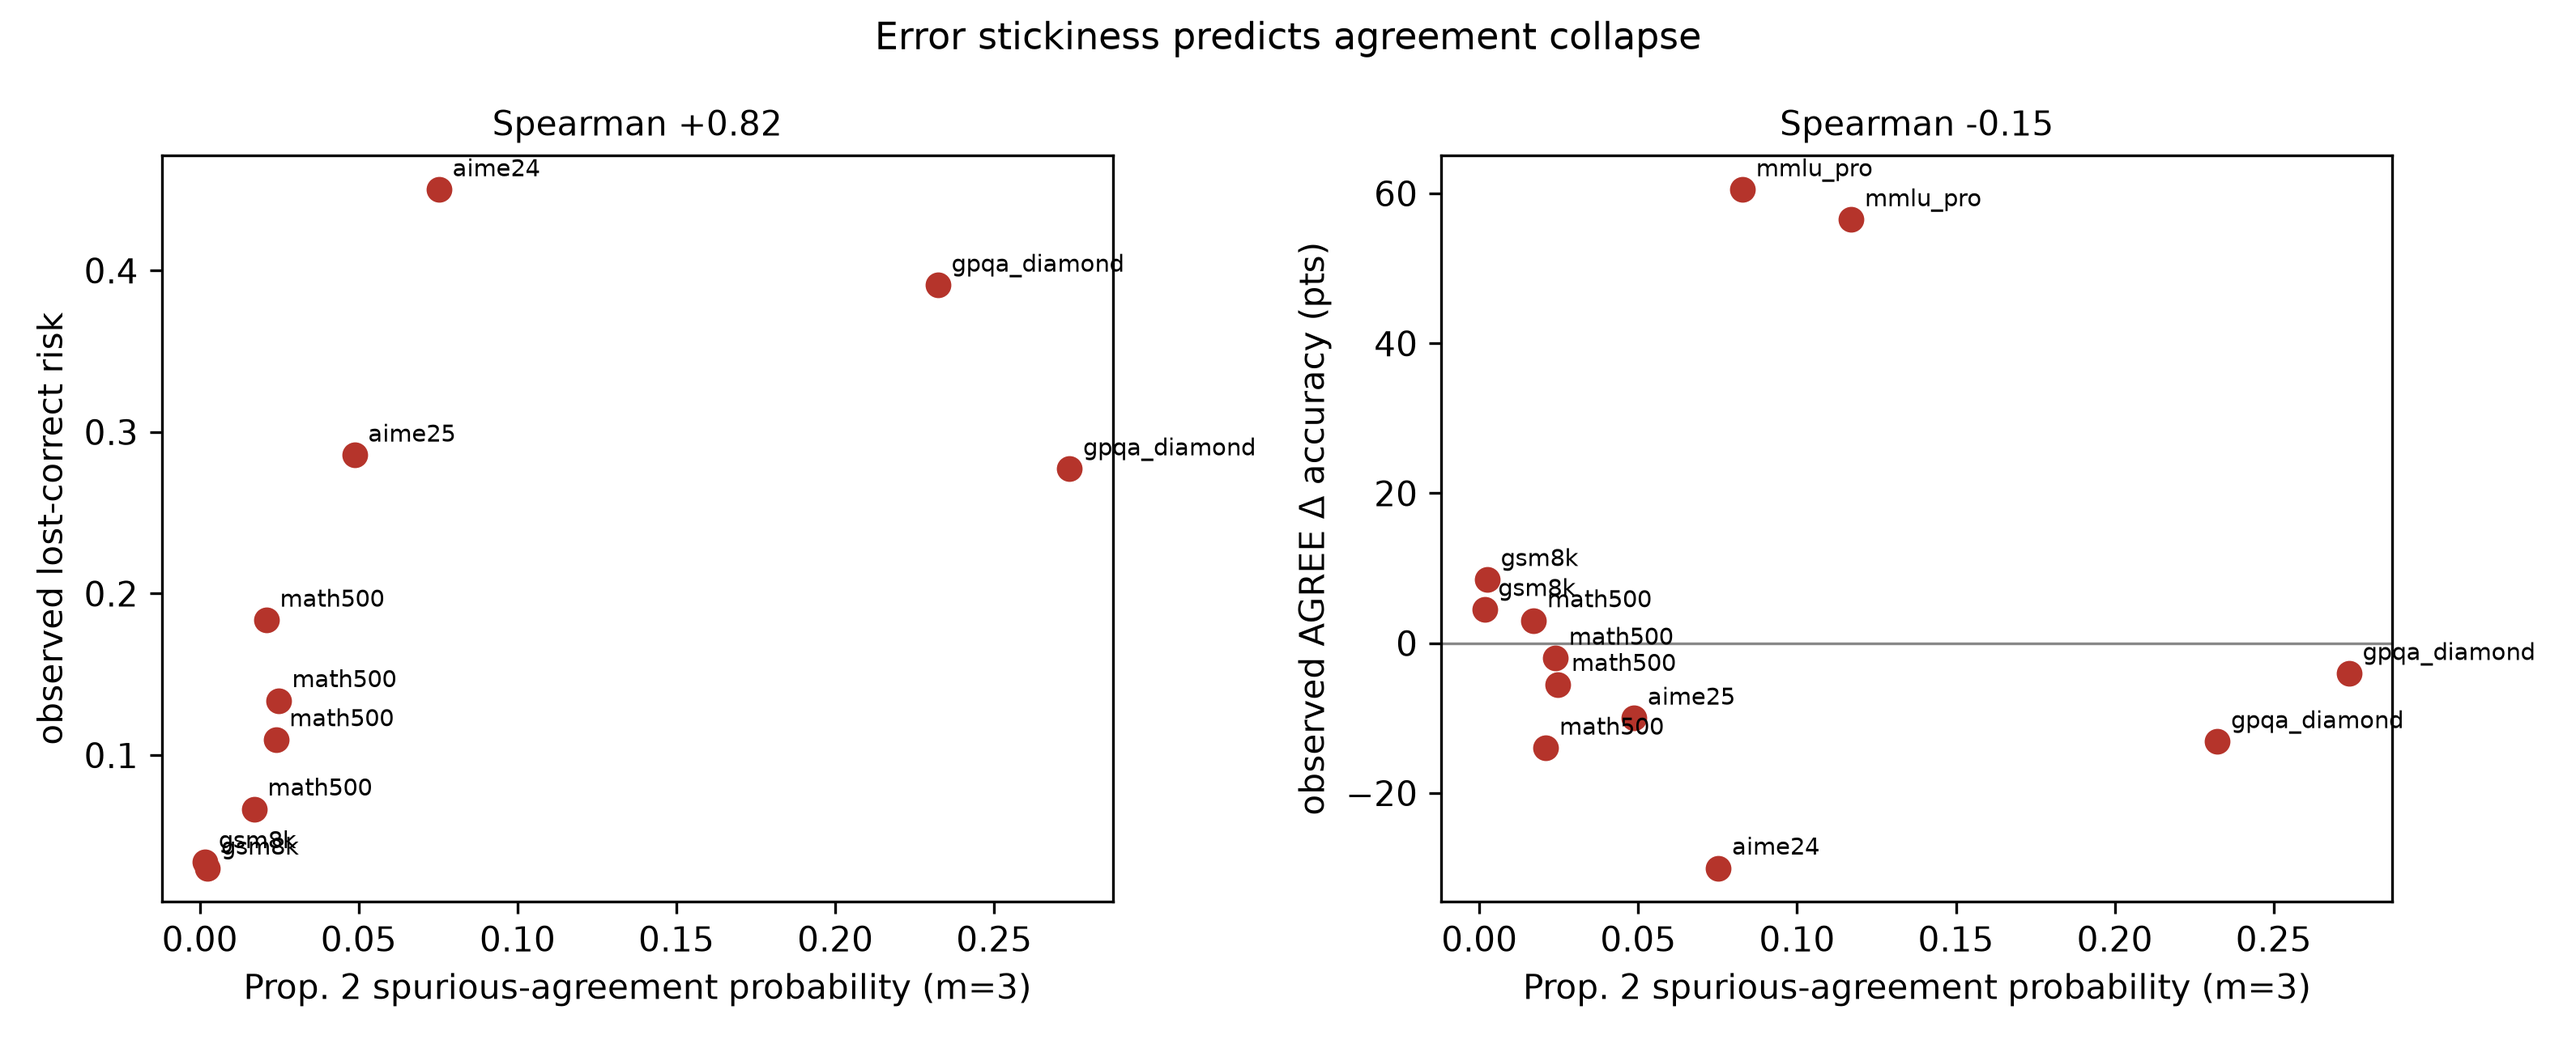
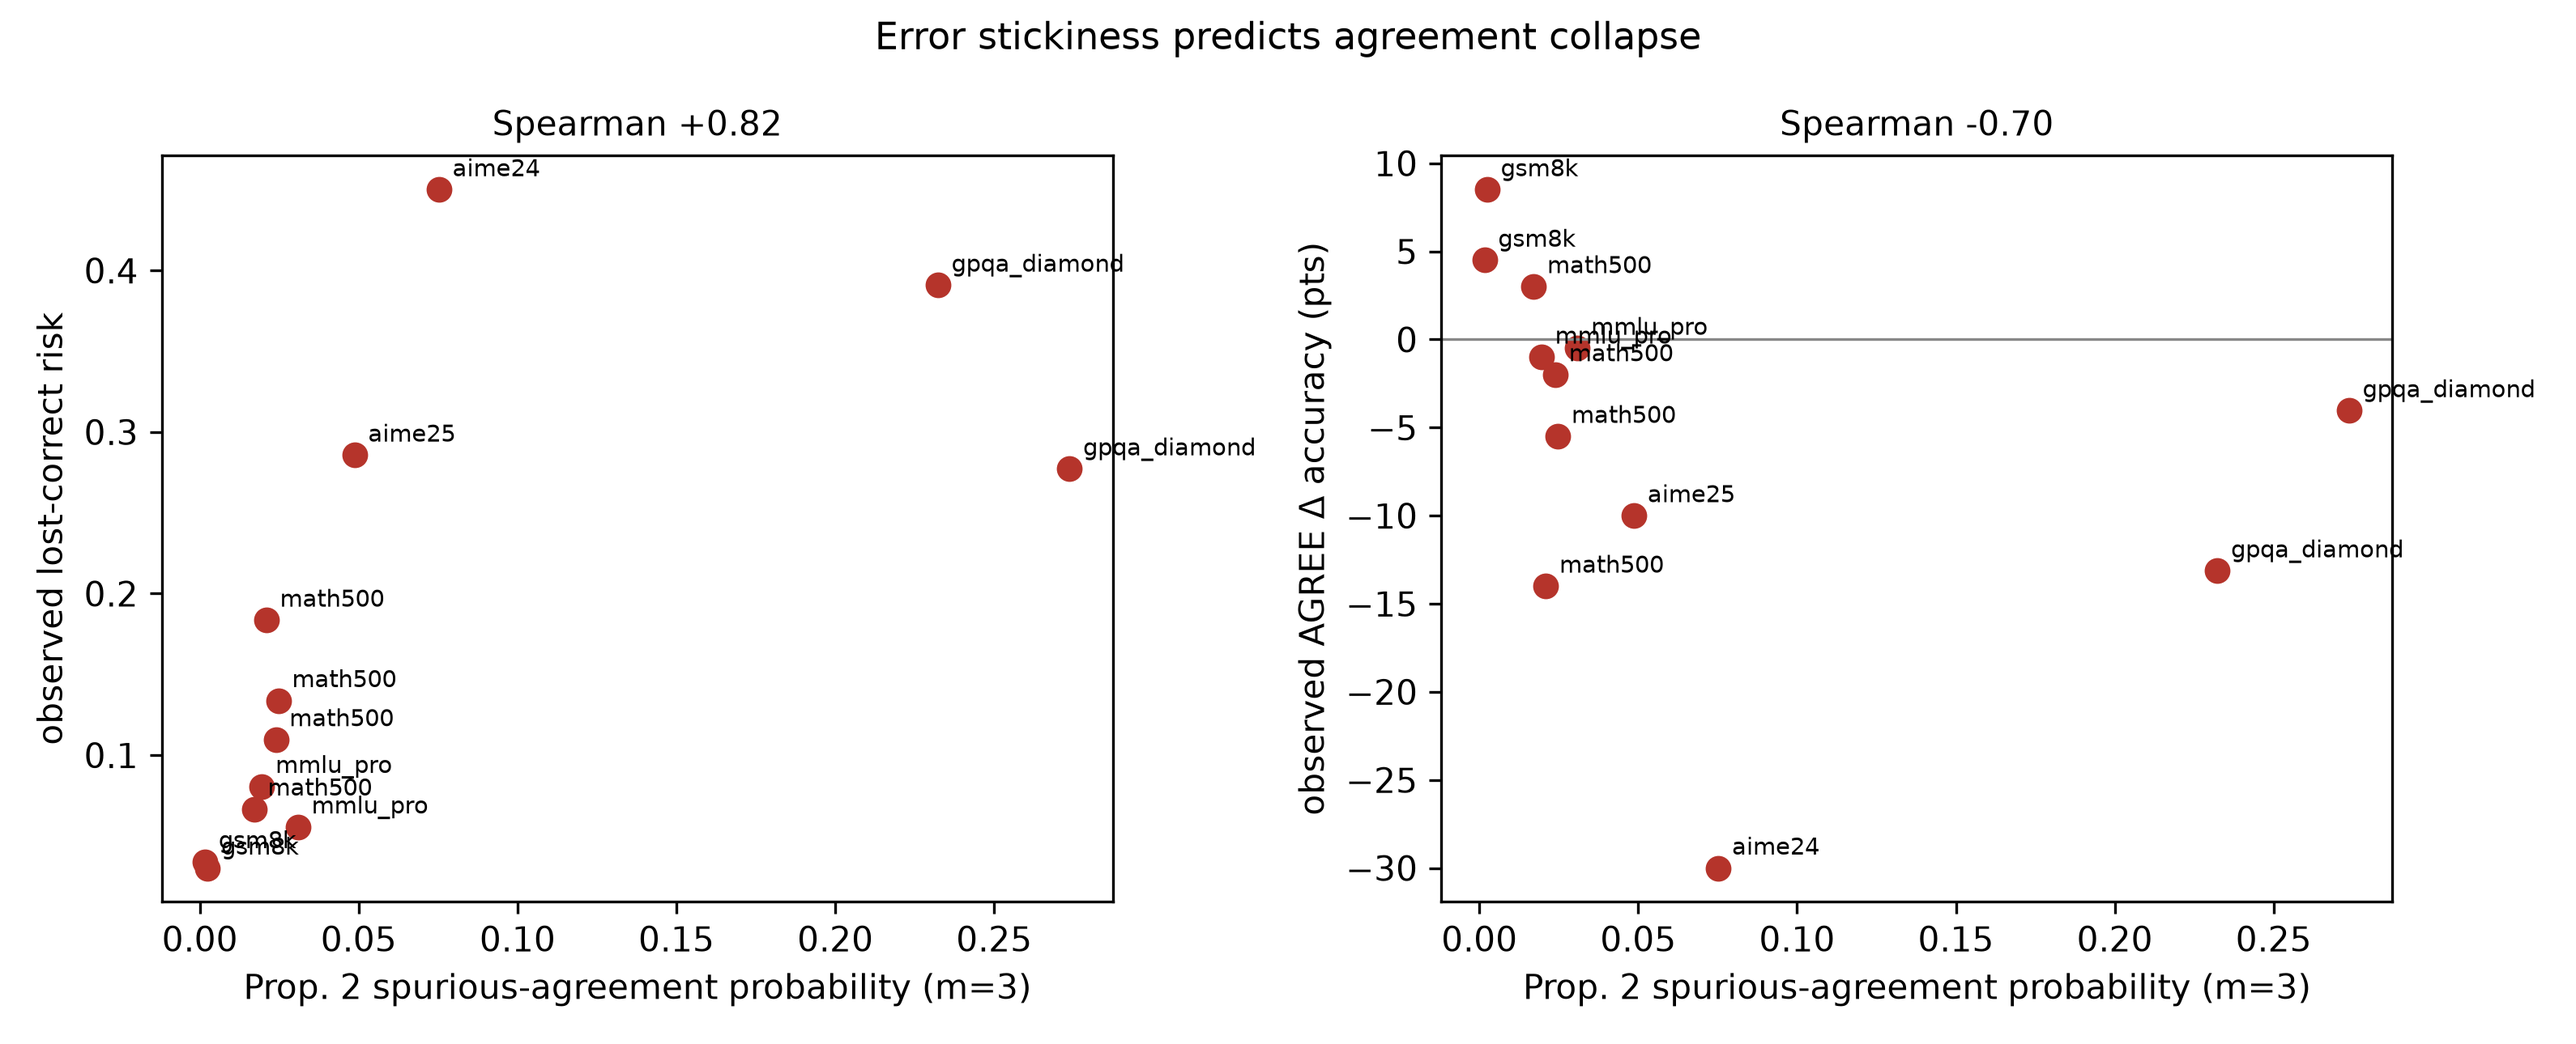
fix: mmlu_pro answer extraction (MCQ letter) + regenerate all affected tables

diff --git a/src/tokenguard/reasoning/datasets.py b/src/tokenguard/reasoning/datasets.py
@@ -88,7 +88,7 @@ def extract_answer(text: str, benchmark: str) -> str:
         return nums[-1].replace(",", "") if nums else ""
     if benchmark in ("math500", "math-500", "aime24", "aime-24", "aime2024", "aime25", "aime-25", "aime2025"):
         return _extract_boxed(text)
-    if benchmark in ("gpqa_diamond", "gpqa"):
+    if benchmark in ("gpqa_diamond", "mmlu_pro", "mmlu-pro", "mmlupro", "gpqa"):
         m = re.findall(r"\b([A-D])\b", text.upper())
         return m[-1] if m else ""
     return text.strip()

diff --git a/experiments/ntc/SLO_ATTAINMENT.md b/experiments/ntc/SLO_ATTAINMENT.md
@@ -13,17 +13,17 @@
 | math500_Qwen3-1.7B | 0.736 | -0.1 (0%) | -1.3 (3%) | -1.1 (48%) | -7.5 (6%) | -2.4 (1%) | -3.0 (11%) | -9.7 (20%) | -1.1 (48%) | -20.9 (38%) |
 | math500_Qwen3-4B | 0.794 | -0.3 (0%) | -0.9 (1%) | -5.5 (51%) | -5.6 (11%) | -2.2 (2%) | -1.8 (15%) | -9.4 (17%) | -5.8 (51%) | -16.2 (41%) |
 | math500_Qwen3-8B | 0.758 | -0.3 (2%) | -1.8 (13%) | +1.4 (51%) | -4.6 (4%) | -1.7 (1%) | -3.4 (17%) | -8.2 (18%) | +1.4 (51%) | -14.0 (33%) |
-| mmlupro_Qwen3-4B | 0.000 | +51.3 (78%) | +51.3 (78%) | +51.5 (79%) | +48.5 (69%) | +48.4 (56%) | +36.2 (38%) | +19.9 (19%) | +51.5 (79%) | +46.4 (67%) |
-| mmlupro_Qwen3-8B | 0.000 | +60.9 (79%) | +60.9 (79%) | +60.9 (79%) | +28.3 (18%) | +22.7 (10%) | +41.2 (39%) | +24.9 (21%) | +60.9 (79%) | +31.5 (22%) |
+| mmlupro_Qwen3-4B | 0.301 | -0.8 (13%) | -2.2 (36%) | -2.3 (38%) | -1.2 (26%) | -0.5 (7%) | -1.3 (23%) | -0.1 (9%) | -2.4 (38%) | -3.3 (59%) |
+| mmlupro_Qwen3-8B | 0.329 | -0.6 (18%) | -1.4 (30%) | -2.4 (35%) | -0.7 (11%) | +0.0 (10%) | -0.4 (20%) | -0.4 (12%) | -1.5 (28%) | -0.7 (15%) |
 
 ## Attainment rates (fraction of settings within the bound)
 
 - `NTC-full(e=0.01)` — within 1.0pt:   77%   within 2.5pt:   92%   within 5.0pt:  100%   worst: -2.6pt
-- `NTC-full(e=0.05)` — within 1.0pt:   54%   within 2.5pt:   77%   within 5.0pt:   92%   worst: -6.1pt
-- `AGREE` — within 1.0pt:   38%   within 2.5pt:   46%   within 5.0pt:   46%   worst: -23.5pt
-- `DEER` — within 1.0pt:   77%   within 2.5pt:   77%   within 5.0pt:   85%   worst: -7.5pt
+- `NTC-full(e=0.05)` — within 1.0pt:   38%   within 2.5pt:   77%   within 5.0pt:   92%   worst: -6.1pt
+- `AGREE` — within 1.0pt:   23%   within 2.5pt:   46%   within 5.0pt:   46%   worst: -23.5pt
+- `DEER` — within 1.0pt:   69%   within 2.5pt:   77%   within 5.0pt:   85%   worst: -7.5pt
 - `NTC-conf` — within 1.0pt:   54%   within 2.5pt:  100%   within 5.0pt:  100%   worst: -2.4pt
-- `EAT` — within 1.0pt:   38%   within 2.5pt:   77%   within 5.0pt:  100%   worst: -3.4pt
+- `EAT` — within 1.0pt:   31%   within 2.5pt:   77%   within 5.0pt:  100%   worst: -3.4pt
 - `MUR-mom` — within 1.0pt:   46%   within 2.5pt:   54%   within 5.0pt:   69%   worst: -23.6pt
-- `NTC-v2` — within 1.0pt:   38%   within 2.5pt:   46%   within 5.0pt:   54%   worst: -16.9pt
-- `REFRAIN-SWUCB` — within 1.0pt:   23%   within 2.5pt:   38%   within 5.0pt:   62%   worst: -20.9pt
+- `NTC-v2` — within 1.0pt:   23%   within 2.5pt:   46%   within 5.0pt:   54%   worst: -16.9pt
+- `REFRAIN-SWUCB` — within 1.0pt:   15%   within 2.5pt:   31%   within 5.0pt:   62%   worst: -20.9pt

diff --git a/experiments/ntc/RESULTS_FINAL/MASTER.md b/experiments/ntc/RESULTS_FINAL/MASTER.md
@@ -139,22 +139,22 @@
   REFRAIN-SWUCB        0.618 ± 0.014  33.4 ± 2.6
 
 ### GENSEEDS_mmlupro_Qwen3-4B.md
-  vanilla              0.000 ± 0.000  0.0 ± 0.0
-  AGREE                0.515 ± 0.010  78.6 ± 0.1
-  DEER                 0.485 ± 0.020  69.4 ± 0.5
-  MUR-mom              0.199 ± 0.018  19.2 ± 2.1
-  NTC-conf             0.484 ± 0.014  56.2 ± 1.5
-  NTC-full(e=0.01)     0.513 ± 0.005  77.7 ± 0.7
-  REFRAIN-SWUCB        0.464 ± 0.019  66.6 ± 0.8
+  vanilla              0.301 ± 0.008  0.0 ± 0.0
+  AGREE                0.278 ± 0.003  37.6 ± 1.3
+  DEER                 0.289 ± 0.008  25.5 ± 4.0
+  MUR-mom              0.300 ± 0.003  9.4 ± 0.8
+  NTC-conf             0.296 ± 0.004  7.0 ± 2.6
+  NTC-full(e=0.01)     0.293 ± 0.005  13.1 ± 3.4
+  REFRAIN-SWUCB        0.268 ± 0.009  59.3 ± 0.3
 
 ### GENSEEDS_mmlupro_Qwen3-8B.md
-  vanilla              0.000 ± 0.000  0.0 ± 0.0
-  AGREE                0.609 ± 0.009  79.3 ± 0.5
-  DEER                 0.283 ± 0.008  17.6 ± 0.4
-  MUR-mom              0.249 ± 0.036  21.1 ± 1.4
-  NTC-conf             0.227 ± 0.022  10.2 ± 0.2
-  NTC-full(e=0.01)     0.609 ± 0.009  79.3 ± 0.5
-  REFRAIN-SWUCB        0.315 ± 0.010  22.4 ± 1.8
+  vanilla              0.329 ± 0.006  0.0 ± 0.0
+  AGREE                0.305 ± 0.006  35.0 ± 4.5
+  DEER                 0.322 ± 0.004  10.9 ± 2.2
+  MUR-mom              0.325 ± 0.007  11.9 ± 1.3
+  NTC-conf             0.329 ± 0.006  10.2 ± 0.2
+  NTC-full(e=0.01)     0.323 ± 0.006  18.2 ± 3.1
+  REFRAIN-SWUCB        0.322 ± 0.003  15.2 ± 0.7
 
 ### H2H_TABLE.md
 

diff --git a/experiments/ntc/GENSEEDS_mmlupro_Qwen3-8B.md b/experiments/ntc/GENSEEDS_mmlupro_Qwen3-8B.md
@@ -2,14 +2,14 @@
 
 | method | accuracy (mean ± std over gen seeds) | cut % |
 |---|---|---|
-| vanilla | 0.000 ± 0.000 | 0.0 ± 0.0 |
-| AGREE | 0.609 ± 0.009 | 79.3 ± 0.5 |
-| DEER | 0.283 ± 0.008 | 17.6 ± 0.4 |
-| EAT | 0.412 ± 0.009 | 39.4 ± 3.1 |
-| MUR-mom | 0.249 ± 0.036 | 21.1 ± 1.4 |
-| NEVER-HALT | 0.000 ± 0.000 | 0.0 ± 0.0 |
-| NTC-conf | 0.227 ± 0.022 | 10.2 ± 0.2 |
-| NTC-full(e=0.01) | 0.609 ± 0.009 | 79.3 ± 0.5 |
-| NTC-full(e=0.05) | 0.609 ± 0.009 | 79.3 ± 0.5 |
-| NTC-v2 | 0.609 ± 0.009 | 79.3 ± 0.5 |
-| REFRAIN-SWUCB | 0.315 ± 0.010 | 22.4 ± 1.8 |
+| vanilla | 0.329 ± 0.006 | 0.0 ± 0.0 |
+| AGREE | 0.305 ± 0.006 | 35.0 ± 4.5 |
+| DEER | 0.322 ± 0.004 | 10.9 ± 2.2 |
+| EAT | 0.325 ± 0.008 | 19.6 ± 3.4 |
+| MUR-mom | 0.325 ± 0.007 | 11.9 ± 1.3 |
+| NEVER-HALT | 0.329 ± 0.006 | 0.0 ± 0.0 |
+| NTC-conf | 0.329 ± 0.006 | 10.2 ± 0.2 |
+| NTC-full(e=0.01) | 0.323 ± 0.006 | 18.2 ± 3.1 |
+| NTC-full(e=0.05) | 0.315 ± 0.004 | 29.8 ± 3.2 |
+| NTC-v2 | 0.314 ± 0.010 | 28.0 ± 1.4 |
+| REFRAIN-SWUCB | 0.322 ± 0.003 | 15.2 ± 0.7 |

diff --git a/experiments/ntc/RESULTS_FINAL/GENSEEDS_mmlupro_Qwen3-8B.md b/experiments/ntc/RESULTS_FINAL/GENSEEDS_mmlupro_Qwen3-8B.md
@@ -2,14 +2,14 @@
 
 | method | accuracy (mean ± std over gen seeds) | cut % |
 |---|---|---|
-| vanilla | 0.000 ± 0.000 | 0.0 ± 0.0 |
-| AGREE | 0.609 ± 0.009 | 79.3 ± 0.5 |
-| DEER | 0.283 ± 0.008 | 17.6 ± 0.4 |
-| EAT | 0.412 ± 0.009 | 39.4 ± 3.1 |
-| MUR-mom | 0.249 ± 0.036 | 21.1 ± 1.4 |
-| NEVER-HALT | 0.000 ± 0.000 | 0.0 ± 0.0 |
-| NTC-conf | 0.227 ± 0.022 | 10.2 ± 0.2 |
-| NTC-full(e=0.01) | 0.609 ± 0.009 | 79.3 ± 0.5 |
-| NTC-full(e=0.05) | 0.609 ± 0.009 | 79.3 ± 0.5 |
-| NTC-v2 | 0.609 ± 0.009 | 79.3 ± 0.5 |
-| REFRAIN-SWUCB | 0.315 ± 0.010 | 22.4 ± 1.8 |
+| vanilla | 0.329 ± 0.006 | 0.0 ± 0.0 |
+| AGREE | 0.305 ± 0.006 | 35.0 ± 4.5 |
+| DEER | 0.322 ± 0.004 | 10.9 ± 2.2 |
+| EAT | 0.325 ± 0.008 | 19.6 ± 3.4 |
+| MUR-mom | 0.325 ± 0.007 | 11.9 ± 1.3 |
+| NEVER-HALT | 0.329 ± 0.006 | 0.0 ± 0.0 |
+| NTC-conf | 0.329 ± 0.006 | 10.2 ± 0.2 |
+| NTC-full(e=0.01) | 0.323 ± 0.006 | 18.2 ± 3.1 |
+| NTC-full(e=0.05) | 0.315 ± 0.004 | 29.8 ± 3.2 |
+| NTC-v2 | 0.314 ± 0.010 | 28.0 ± 1.4 |
+| REFRAIN-SWUCB | 0.322 ± 0.003 | 15.2 ± 0.7 |

diff --git a/experiments/ntc/GENSEEDS_mmlupro_Qwen3-4B.md b/experiments/ntc/GENSEEDS_mmlupro_Qwen3-4B.md
@@ -2,14 +2,14 @@
 
 | method | accuracy (mean ± std over gen seeds) | cut % |
 |---|---|---|
-| vanilla | 0.000 ± 0.000 | 0.0 ± 0.0 |
-| AGREE | 0.515 ± 0.010 | 78.6 ± 0.1 |
-| DEER | 0.485 ± 0.020 | 69.4 ± 0.5 |
-| EAT | 0.362 ± 0.021 | 37.6 ± 1.4 |
-| MUR-mom | 0.199 ± 0.018 | 19.2 ± 2.1 |
-| NEVER-HALT | 0.000 ± 0.000 | 0.0 ± 0.0 |
-| NTC-conf | 0.484 ± 0.014 | 56.2 ± 1.5 |
-| NTC-full(e=0.01) | 0.513 ± 0.005 | 77.7 ± 0.7 |
-| NTC-full(e=0.05) | 0.513 ± 0.005 | 77.7 ± 0.7 |
-| NTC-v2 | 0.515 ± 0.010 | 78.6 ± 0.1 |
-| REFRAIN-SWUCB | 0.464 ± 0.019 | 66.6 ± 0.8 |
+| vanilla | 0.301 ± 0.008 | 0.0 ± 0.0 |
+| AGREE | 0.278 ± 0.003 | 37.6 ± 1.3 |
+| DEER | 0.289 ± 0.008 | 25.5 ± 4.0 |
+| EAT | 0.288 ± 0.011 | 23.3 ± 2.9 |
+| MUR-mom | 0.300 ± 0.003 | 9.4 ± 0.8 |
+| NEVER-HALT | 0.301 ± 0.008 | 0.0 ± 0.0 |
+| NTC-conf | 0.296 ± 0.004 | 7.0 ± 2.6 |
+| NTC-full(e=0.01) | 0.293 ± 0.005 | 13.1 ± 3.4 |
+| NTC-full(e=0.05) | 0.279 ± 0.003 | 36.0 ± 1.3 |
+| NTC-v2 | 0.277 ± 0.003 | 37.9 ± 1.8 |
+| REFRAIN-SWUCB | 0.268 ± 0.009 | 59.3 ± 0.3 |

diff --git a/experiments/ntc/RESULTS_FINAL/GENSEEDS_mmlupro_Qwen3-4B.md b/experiments/ntc/RESULTS_FINAL/GENSEEDS_mmlupro_Qwen3-4B.md
@@ -2,14 +2,14 @@
 
 | method | accuracy (mean ± std over gen seeds) | cut % |
 |---|---|---|
-| vanilla | 0.000 ± 0.000 | 0.0 ± 0.0 |
-| AGREE | 0.515 ± 0.010 | 78.6 ± 0.1 |
-| DEER | 0.485 ± 0.020 | 69.4 ± 0.5 |
-| EAT | 0.362 ± 0.021 | 37.6 ± 1.4 |
-| MUR-mom | 0.199 ± 0.018 | 19.2 ± 2.1 |
-| NEVER-HALT | 0.000 ± 0.000 | 0.0 ± 0.0 |
-| NTC-conf | 0.484 ± 0.014 | 56.2 ± 1.5 |
-| NTC-full(e=0.01) | 0.513 ± 0.005 | 77.7 ± 0.7 |
-| NTC-full(e=0.05) | 0.513 ± 0.005 | 77.7 ± 0.7 |
-| NTC-v2 | 0.515 ± 0.010 | 78.6 ± 0.1 |
-| REFRAIN-SWUCB | 0.464 ± 0.019 | 66.6 ± 0.8 |
+| vanilla | 0.301 ± 0.008 | 0.0 ± 0.0 |
+| AGREE | 0.278 ± 0.003 | 37.6 ± 1.3 |
+| DEER | 0.289 ± 0.008 | 25.5 ± 4.0 |
+| EAT | 0.288 ± 0.011 | 23.3 ± 2.9 |
+| MUR-mom | 0.300 ± 0.003 | 9.4 ± 0.8 |
+| NEVER-HALT | 0.301 ± 0.008 | 0.0 ± 0.0 |
+| NTC-conf | 0.296 ± 0.004 | 7.0 ± 2.6 |
+| NTC-full(e=0.01) | 0.293 ± 0.005 | 13.1 ± 3.4 |
+| NTC-full(e=0.05) | 0.279 ± 0.003 | 36.0 ± 1.3 |
+| NTC-v2 | 0.277 ± 0.003 | 37.9 ± 1.8 |
+| REFRAIN-SWUCB | 0.268 ± 0.009 | 59.3 ± 0.3 |

diff --git a/experiments/ntc/PROP2_VALIDATION.md b/experiments/ntc/PROP2_VALIDATION.md
@@ -10,12 +10,12 @@ rho_w / q_w estimated over INCORRECT trial answers only; m=3.
 | math500/Qwen3-8B | 0.233 | 0.314 | 0.017 | 0.067 | +3.0 | 200 |
 | gpqa_diamond/Qwen3-4B | 0.765 | 0.468 | 0.274 | 0.277 | -4.0 | 198 |
 | gpqa_diamond/Qwen3-8B | 0.724 | 0.444 | 0.232 | 0.391 | -13.1 | 198 |
-| mmlu_pro/Qwen3-4B | 0.601 | 0.324 | 0.117 | nan | +56.5 | 200 |
-| mmlu_pro/Qwen3-8B | 0.549 | 0.275 | 0.083 | nan | +60.5 | 200 |
+| mmlu_pro/Qwen3-4B | 0.219 | 0.647 | 0.031 | 0.056 | -0.5 | 200 |
+| mmlu_pro/Qwen3-8B | 0.177 | 0.623 | 0.020 | 0.081 | -1.0 | 200 |
 | aime24/Qwen3-4B | 0.425 | 0.417 | 0.075 | 0.450 | -30.0 | 30 |
 | aime25/Qwen3-4B | 0.375 | 0.347 | 0.049 | 0.286 | -10.0 | 30 |
 | math500/DeepSeek-R1-Distill-Qwen-7B | 0.256 | 0.319 | 0.021 | 0.184 | -14.0 | 200 |
 
 n = 12 settings.
 Spearman(P_spur, lost-correct risk) = +0.818 (positive supports Prop. 2).
-Spearman(P_spur, AGREE delta) = -0.154 (negative supports Prop. 2).
+Spearman(P_spur, AGREE delta) = -0.699 (negative supports Prop. 2).
